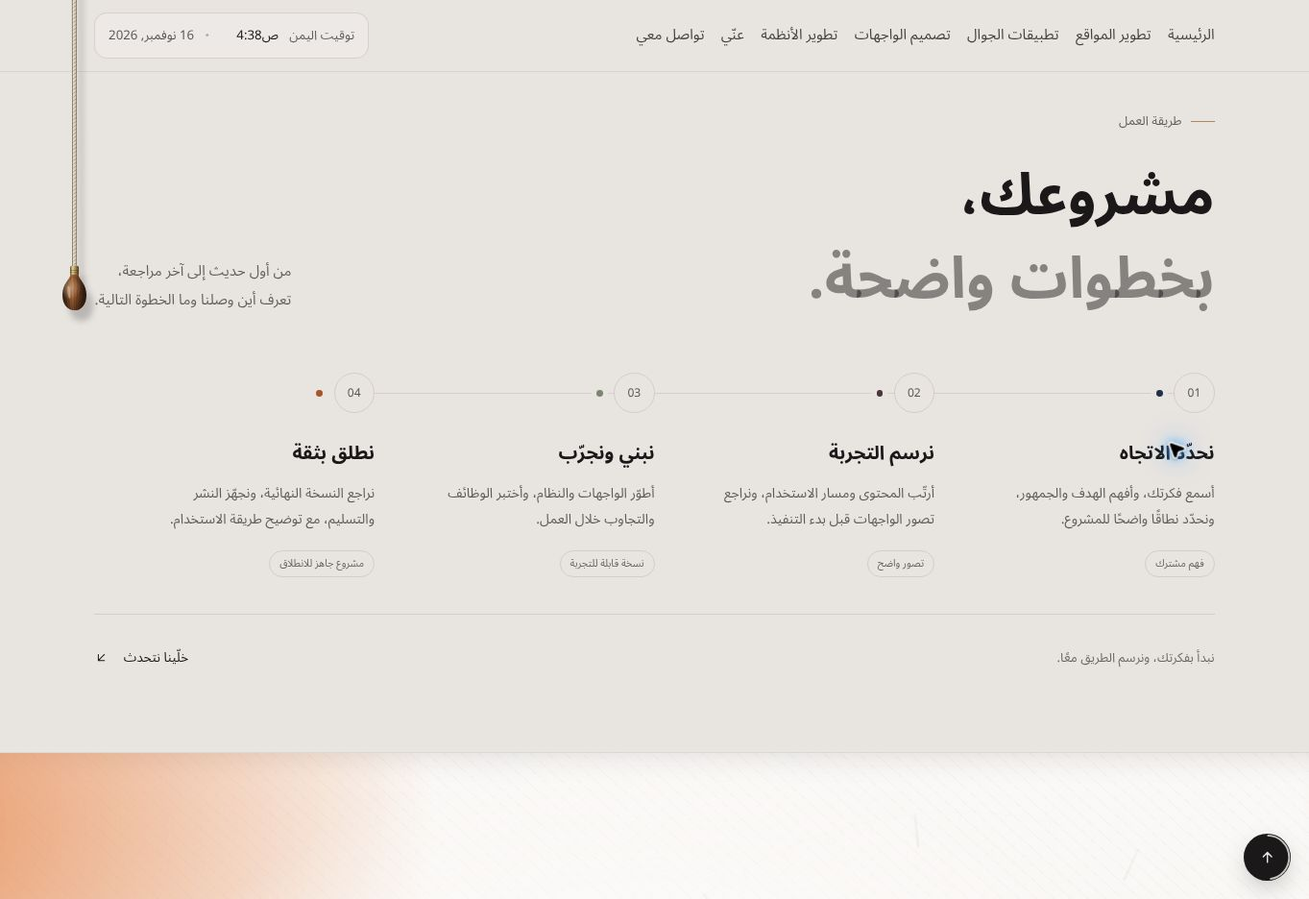
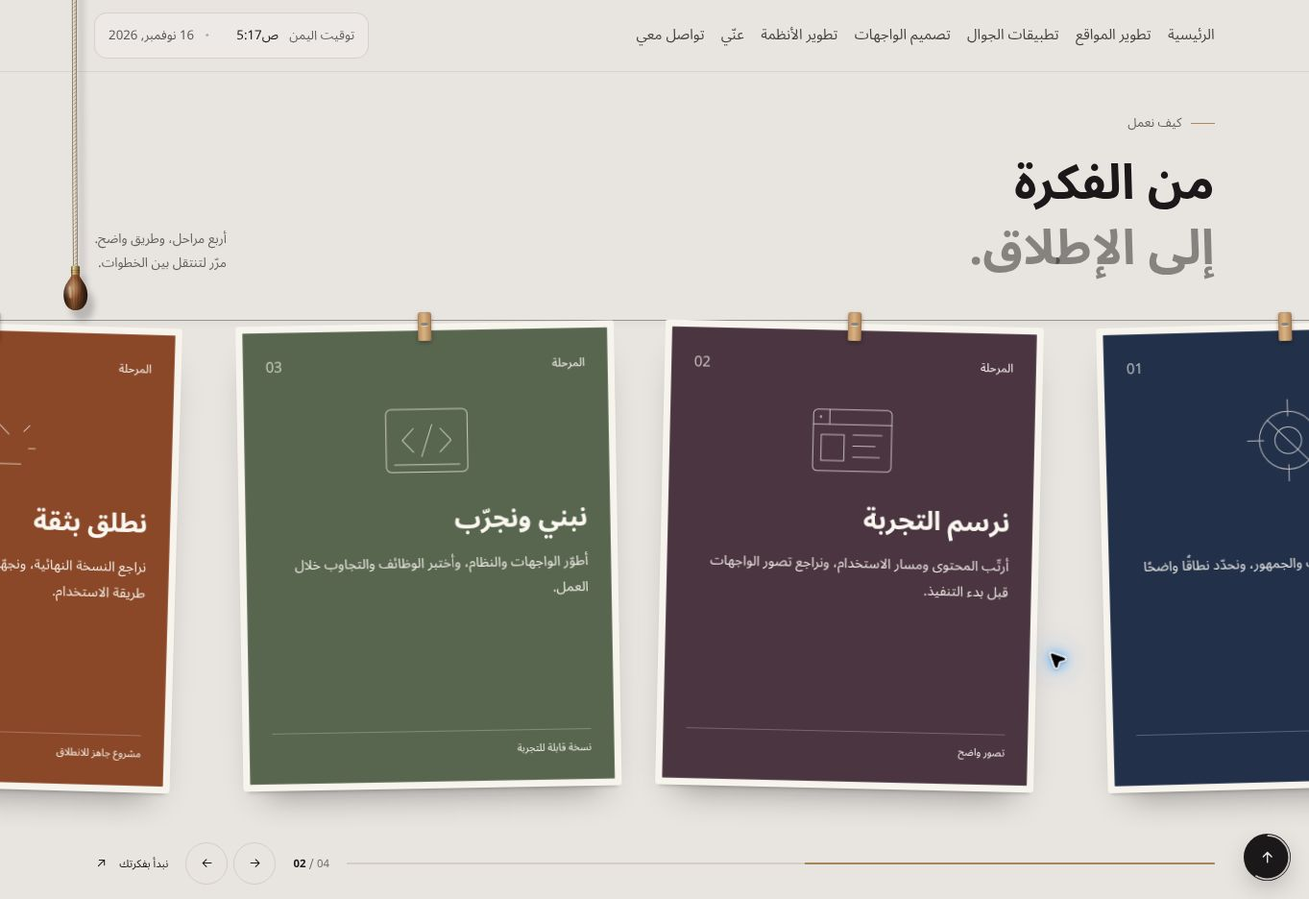
feat: choreograph profile papers and hanging workflow cards
Replace simple reveals with a scroll-driven three-paper profile and an RTL hanging-card gallery inspired by the reference design exhibit. Preserve native input, add sequence controls, and provide short-screen and reduced-motion fallbacks.

diff --git a/src/sections.css b/src/sections.css
@@ -1,47 +1,84 @@
-/* New sections share the portfolio's paper, metal, door colours and Arabic type. */
-.profile,.process{position:relative;background:var(--background);color:var(--foreground);scroll-margin-top:5.5rem}
-.profile{padding-block:7rem 5rem}
-.profile__grid{display:grid;grid-template-columns:minmax(0,1.25fr) minmax(0,.85fr);gap:clamp(3rem,7vw,7rem);align-items:center}
-.section-kicker{display:flex;align-items:center;gap:.65rem;color:rgba(var(--fg-rgb),.65);font-size:.875rem;font-weight:500;line-height:1.8;margin-bottom:1.5rem}
+/* Scroll stories: a turning paper dossier and a wire-hung workflow gallery. */
+.profile,.process{position:relative;background:var(--background);color:var(--foreground);scroll-margin-top:5.5rem;--motion-nav:80px}
+.section-kicker{display:flex;align-items:center;gap:.65rem;color:rgba(var(--fg-rgb),.65);font-size:.875rem;font-weight:500;line-height:1.8;margin-bottom:1.1rem}
 .section-kicker>span{width:1.6rem;height:1px;background:#ac885c}
-.profile__title,.process__head h2{font-size:clamp(2.3rem,4.4vw,4.4rem);line-height:1.45;font-weight:700;letter-spacing:0}
-.profile__title>span,.process__head h2>span{color:rgba(var(--fg-rgb),.48)}
-.profile__lead{font-size:1.125rem;line-height:2;max-width:49ch;margin-block:1.75rem 1rem}
-.profile__text{font-size:1rem;line-height:2;color:rgba(var(--fg-rgb),.68);max-width:52ch}
-.section-links{display:flex;flex-wrap:wrap;gap:.5rem 1.5rem;margin-top:1.75rem}
-.section-links a{min-height:44px;display:inline-flex;align-items:center;gap:.8rem;font-size:.9rem;border-bottom:1px solid var(--line);text-decoration:none;color:inherit;transition:border-color .25s}
-.section-links a:hover{border-color:#ac885c}.section-links a:focus-visible,.process__foot button:focus-visible{outline:2px solid #ac885c;outline-offset:5px}
-.profile-note{padding:2.1rem;border:1px solid var(--line);border-radius:1.5rem;background:var(--panel);box-shadow:0 1.5rem 3rem -2.5rem rgba(0,0,0,.4);transform:rotate(-2deg);transition:transform .5s var(--e-soft);position:relative}
-@media(hover:hover){.profile-note:hover{transform:rotate(0)}}
-.profile-note__top{display:flex;align-items:center;justify-content:space-between;font-size:.8rem;color:rgba(var(--fg-rgb),.6)}
-.profile-note__spark{color:#a68558;font-size:2rem;line-height:1}
-.profile-note__statement{font-size:clamp(1.65rem,2.7vw,2.65rem);font-weight:600;line-height:1.6;margin-block:2.1rem}
-.profile-note__values>div{display:grid;grid-template-columns:5.5rem minmax(0,1fr);gap:.5rem;border-top:1px solid var(--line);padding-block:.85rem;font-size:.875rem;line-height:1.8}
-.profile-note__values dt{font-weight:600}.profile-note__values dd{color:rgba(var(--fg-rgb),.65)}
-.profile-note__signature{display:flex;flex-direction:column;gap:.3rem;margin-top:1.5rem;padding-top:1.25rem;border-top:1px solid var(--line)}
-.profile-note__signature>span{font-size:1rem;font-weight:600}.profile-note__signature small{font-size:.75rem;color:rgba(var(--fg-rgb),.58)}
-.process{padding-block:4.5rem 5rem}
-.process__head{display:flex;justify-content:space-between;align-items:flex-end;gap:2rem;padding-top:3rem;border-top:1px solid var(--line)}
-.process__head>p{font-size:1rem;line-height:2;color:rgba(var(--fg-rgb),.65);padding-bottom:.5rem}
-.process__steps{display:grid;grid-template-columns:repeat(4,minmax(0,1fr));list-style:none;margin-top:3.5rem;gap:0}
-.process-step{position:relative;min-width:0;padding-inline-end:1.6rem;padding-block-end:1.5rem}
-.process-step::before{content:"";position:absolute;top:1.4rem;inset-inline:0;background:var(--line);height:1px;pointer-events:none}
-.process-step:last-child::before{inset-inline-end:calc(100% - 1.5rem)}
-.process-step__marker{position:relative;display:flex;align-items:center;gap:.75rem;min-height:2.8rem;margin-bottom:1.75rem}
-.process-step__marker>span{display:grid;place-items:center;width:2.8rem;height:2.8rem;flex:none;border-radius:50%;background:var(--background);border:1px solid var(--line);font-size:.8rem;direction:ltr;color:rgba(var(--fg-rgb),.7);font-variant-numeric:tabular-nums;position:relative}
-.process-step__marker i{width:.45rem;height:.45rem;border-radius:50%;background:var(--step-color);box-shadow:0 0 0 .35rem var(--background)}
-.process-step h3{font-size:1.3rem;font-weight:600;line-height:1.6;margin-bottom:.75rem}
-.process-step>p{font-size:.9375rem;line-height:1.95;color:rgba(var(--fg-rgb),.67);max-width:27ch}
-.process-step__result{display:inline-block;margin-top:1.2rem;padding:.3rem .65rem;border:1px solid var(--line);border-radius:99px;color:rgba(var(--fg-rgb),.65);font-size:.7rem;line-height:1.6}
-.process__foot{margin-top:1rem;padding-top:1.5rem;border-top:1px solid var(--line);display:flex;justify-content:space-between;align-items:center;gap:1rem;font-size:.875rem;color:rgba(var(--fg-rgb),.6)}
-.process__foot button{display:flex;align-items:center;gap:1rem;min-height:44px;font-size:.9rem;color:var(--foreground)}
-.section-reveal{opacity:0;translate:0 14px;transition:opacity .7s var(--e-soft) var(--reveal-delay,0ms),translate .7s var(--e-soft) var(--reveal-delay,0ms)}
-.section-visible{opacity:1;translate:0 0}
-@media(max-width:1023.98px){.profile__grid{grid-template-columns:minmax(0,1fr) minmax(0,.9fr);gap:2.5rem}.profile-note{padding:1.5rem}.process__steps{grid-template-columns:repeat(2,minmax(0,1fr));gap:1.5rem 2rem}.process-step:nth-child(2)::before{inset-inline-end:calc(100% - 1.5rem)}}
+.motion-number{direction:ltr;unicode-bidi:isolate;font-variant-numeric:tabular-nums}
+.section-links{display:flex;flex-wrap:wrap;gap:.5rem 1.4rem;margin-top:1.5rem}
+.section-links a{min-height:44px;display:inline-flex;align-items:center;gap:.8rem;font-size:.875rem;border-bottom:1px solid var(--line);text-decoration:none;color:inherit}
+.section-links svg{width:1rem;height:1rem;rotate:45deg}
+.section-links a:focus-visible,.profile-controls button:focus-visible,.work-foot button:focus-visible{outline:2px solid #ac885c;outline-offset:4px}
+.profile{padding-block:5rem 3rem}
+.profile__layout{display:grid;grid-template-columns:minmax(0,1.12fr) minmax(0,1fr);gap:clamp(2.5rem,6vw,6rem);align-items:start}
+.profile__copy{position:relative;padding-top:2rem;min-width:0}
+.profile__copy h2{font-size:clamp(2.2rem,4.1vw,4.1rem);line-height:1.45;font-weight:700}
+.profile__copy h2>span{color:rgba(var(--fg-rgb),.48)}
+.profile__lead{font-size:1.1rem;line-height:2;max-width:45ch;margin-top:1.5rem}
+.profile__aside{font-size:.9rem;line-height:1.9;color:rgba(var(--fg-rgb),.6);margin-top:1rem;max-width:42ch}
+.profile-stage{position:relative;min-width:0;padding-block:1rem}
+.profile-stage__caption,.profile-stage__foot{display:flex;align-items:center;justify-content:space-between;gap:1rem;font-size:.75rem;line-height:1.8;color:rgba(var(--fg-rgb),.58)}
+.profile-stage__caption{padding-inline:.5rem}.profile-stage__caption b{font-weight:600;color:var(--foreground)}
+.profile-desk{position:relative;padding:2.5rem 1rem}
+.profile-orbit{display:none}
+.profile-card{position:relative;border:1px solid var(--line);border-radius:1.1rem;background:var(--panel);padding:1.7rem;margin-bottom:1rem;box-shadow:0 16px 30px -25px rgba(0,0,0,.45);overflow:hidden;transform-origin:50% 80%}
+.profile-card::after{content:"";position:absolute;top:0;left:0;width:1.7rem;height:1.7rem;background:linear-gradient(135deg,var(--background) 49%,var(--line) 50%,var(--panel) 54%);border-end-end-radius:.3rem}
+.profile-card__meta{display:flex;justify-content:space-between;gap:1rem;font-size:.7rem;line-height:1.8;color:rgba(var(--fg-rgb),.6)}
+.profile-card__art{color:var(--card-accent);height:5rem;margin-block:1.2rem .7rem}.profile-card__art svg{height:100%;width:100%}
+.profile-card h3{font-size:clamp(2.2rem,4vw,3.4rem);font-weight:700;line-height:1.4;color:var(--foreground)}
+.profile-card>strong{display:block;font-size:1rem;font-weight:600;line-height:1.8;margin-top:.5rem}
+.profile-card>p{font-size:.9rem;line-height:1.9;color:rgba(var(--fg-rgb),.65);margin-top:.45rem}
+.profile-card__seal{display:flex;justify-content:space-between;align-items:center;border-top:1px solid var(--line);margin-top:1.2rem;padding-top:.8rem;font-size:.7rem;line-height:1.8;color:rgba(var(--fg-rgb),.6)}
+.profile-card__seal>span:last-child{color:#a68558;font-size:1.25rem}
+.profile-controls{display:none;gap:.2rem}.profile-controls button{display:grid;place-items:center;width:36px;height:36px}.profile-controls button span{width:6px;height:6px;border-radius:50%;background:var(--line);transition:background .25s,scale .25s}.profile-controls button[aria-current="step"] span{background:#a68558;scale:1.5}
+.profile.motion-profile .profile__copy{position:sticky;top:calc(var(--motion-nav) + 1.5rem)}
+.motion-profile .profile-reel{height:var(--profile-height)}
+.motion-profile .profile-stage{position:sticky;top:calc(var(--motion-nav) + 1rem);height:var(--profile-stage-height);display:flex;flex-direction:column}
+.motion-profile .profile-desk{flex:1;min-height:0;perspective:1000px;padding:0;contain:paint;overflow:clip}
+.motion-profile .profile-orbit{display:block;position:absolute;inset:0;width:100%;height:100%;fill:none;stroke:var(--line);stroke-width:.6;pointer-events:none}
+.motion-profile .profile-orbit__draw{stroke:#ac885c;stroke-width:1;stroke-dasharray:1445;stroke-dashoffset:calc(1445 * (1 - var(--profile-p,0)));rotate:-90deg;transform-origin:50% 50%}
+.motion-profile .profile-card{position:absolute;top:50%;left:50%;width:calc(100% - 3rem);max-width:26rem;height:var(--profile-card-height);margin:0;will-change:transform,opacity;display:flex;flex-direction:column}
+.motion-profile .profile-card__art{height:clamp(40px,calc(var(--profile-card-height) * .19),100px);flex:none;margin-block:1rem .5rem}
+.motion-profile .profile-card__seal{margin-top:auto}.motion-profile .profile-controls{display:flex}
+.motion-profile .profile-stage__foot{margin-top:.5rem;padding-inline:.5rem}
+/* Reference-inspired gallery: native vertical scroll drives a pinned, horizontal print line. */
+.process{padding-block:3rem}
+.process__head{display:flex;justify-content:space-between;align-items:flex-end;gap:2rem;padding-top:1.5rem}
+.process__head h2{font-size:clamp(2rem,3.7vw,3.8rem);line-height:1.35;font-weight:700}
+.process__head h2 span{color:rgba(var(--fg-rgb),.48)}
+.process__head>p{font-size:.9rem;line-height:1.9;color:rgba(var(--fg-rgb),.65);padding-bottom:.4rem}
+.work-line{position:relative;padding-block:2rem 3rem;overflow-x:auto;overscroll-behavior-x:contain;scrollbar-width:thin}
+.work-track{position:relative;display:flex;direction:rtl;align-items:flex-start;gap:clamp(24px,4vw,60px);list-style:none;width:max-content;padding-inline:max(20px,calc((100vw - min(100vw,88rem)) / 2 + 5.5rem));padding-top:12px}
+.work-track::before{content:"";position:absolute;inset-inline:0;top:20px;height:1px;background:rgba(var(--fg-rgb),.4);box-shadow:0 3px 4px rgba(0,0,0,.1);pointer-events:none}
+.work-print{position:relative;flex:none;width:min(78vw,26rem);padding-top:12px;transform-origin:50% 12px}
+.work-peg{position:absolute;top:0;left:50%;margin-left:-7px;z-index:2;width:14px;height:30px;border-radius:3px 3px 2px 2px;background:linear-gradient(90deg,#b98d5c,#d9b384 45%,#a97d4f);box-shadow:0 2px 4px rgba(0,0,0,.3),inset 0 0 0 1px rgba(0,0,0,.08)}
+.work-peg::after{content:"";position:absolute;left:3px;right:3px;top:11px;height:3px;border-radius:2px;background:#8a8580;box-shadow:0 1px 0 rgba(255,255,255,.4)}
+.work-paper{position:relative;display:block;padding:7px;background:#f7f3ed;border-radius:3px;box-shadow:0 22px 36px -22px rgba(0,0,0,.45),0 4px 5px -4px rgba(0,0,0,.3);transition:translate .35s var(--e-soft)}
+.work-paper__face{height:var(--paper-height,440px);padding:1.5rem;background:var(--work-color);color:#faf6f0;display:flex;flex-direction:column;border:1px solid rgba(255,255,255,.14);border-radius:1px}
+.work-paper__top{display:flex;justify-content:space-between;align-items:center;font-size:.8rem;line-height:1.7}.work-paper__top b{font-size:1rem;font-weight:500;opacity:.7}
+.work-paper__art{height:clamp(36px,calc(var(--paper-height,440px) * .21),104px);width:100%;flex:none;opacity:.7;margin-block:1rem}
+.work-paper h3{font-size:clamp(1.35rem,2vw,1.8rem);line-height:1.5;font-weight:600;margin-bottom:.65rem}
+.work-paper p{font-size:.95rem;line-height:1.9;opacity:.92}
+.work-paper__result{align-self:flex-start;font-size:.7rem;line-height:1.7;border-top:1px solid rgba(255,255,255,.24);margin-top:auto;padding-top:.7rem;width:100%}
+.work-foot{display:flex;align-items:center;gap:1.2rem;padding-block:1rem;min-height:66px;font-size:.75rem;line-height:1.8;color:rgba(var(--fg-rgb),.6)}
+.work-progress{height:2px;flex:1;min-width:30px;background:var(--line);overflow:hidden}.work-progress i{display:block;height:100%;background:#a68558;transform-origin:100% 50%;transform:scaleX(var(--work-p,0))}
+.work-counter{white-space:nowrap}.work-counter b{color:var(--foreground);font-weight:600}
+.work-controls{display:none;gap:.4rem}.work-controls button{display:grid;place-items:center;width:44px;height:44px;border:1px solid var(--line);border-radius:50%;color:var(--foreground)}
+.work-controls button:last-child svg{rotate:180deg}.work-controls button:disabled{opacity:.3;cursor:default}
+.work-foot svg{width:1rem;height:1rem;flex:none}.work-contact{display:flex;align-items:center;gap:.7rem;min-height:44px;color:var(--foreground);white-space:nowrap}.work-contact svg{rotate:-45deg}
+.process.motion-work{padding:0;height:var(--work-height)}
+.motion-work .process-pin{position:sticky;top:var(--motion-nav);height:var(--work-pin-height);overflow:hidden;display:flex;flex-direction:column;background:var(--background)}
+.motion-work .process__head{flex:none}.motion-work .work-line{flex:1;min-height:0;overflow:hidden;padding:0}
+.motion-work .work-track{position:absolute;right:0;top:20px;will-change:transform;padding-top:12px}
+.motion-work .work-print{will-change:transform}.motion-work .work-foot{flex:none;width:100%}.motion-work .work-controls{display:flex}
+@media(hover:hover){.work-paper:hover{translate:0 -5px}}
+html[data-mode="dark"] .profile-card__art{color:color-mix(in srgb,var(--card-accent) 50%,#dfc9ac)}
+@media(max-width:1023.98px){.profile__layout{gap:2rem;grid-template-columns:minmax(0,1fr) minmax(0,1fr)}.profile__copy h2{font-size:2.5rem}.profile-card{padding:1.3rem}.profile-card h3{font-size:2.3rem}.profile__lead{font-size:1rem}.work-track{padding-inline:24px}.work-print{width:min(78vw,23rem)}}
 @media(max-width:639.98px){
-.profile{padding-block:4.5rem 2rem}.profile__grid{grid-template-columns:minmax(0,1fr);gap:2.5rem}.section-kicker{margin-bottom:1rem}.profile__title,.process__head h2{font-size:2.2rem;line-height:1.5}.profile__lead{font-size:1rem;margin-top:1.3rem}.profile__text{font-size:.9375rem}.profile-note{transform:none;padding:1.5rem;margin-inline:.2rem}.profile-note__statement{margin-block:1.4rem;font-size:1.9rem}.profile-note__values>div{grid-template-columns:5rem minmax(0,1fr)}
-.process{padding-block:2.5rem 3rem}.process__head{display:block;padding-top:2rem}.process__head>p{margin-top:1rem;font-size:.9375rem}.process__steps{grid-template-columns:minmax(0,1fr);margin-top:2rem;gap:0}.process-step{padding-inline:4rem 0;padding-block:0 2rem}.process-step::before,.process-step:nth-child(2)::before,.process-step:last-child::before{inset-inline-start:1.35rem;inset-inline-end:auto;top:0;bottom:0;width:1px;height:auto}.process-step:last-child::before{height:2rem;bottom:auto}.process-step__marker{position:absolute;inset-inline-start:0;top:0;margin:0}.process-step__marker i{display:none}.process-step h3{padding-top:.3rem;font-size:1.25rem;margin-bottom:.55rem}.process-step>p{max-width:none}.process-step__result{margin-top:.7rem}.process__foot{align-items:flex-start;flex-direction:column;gap:.5rem}
+.profile{padding-block:3rem 2rem}.profile__layout{display:block}.profile__copy,.profile.motion-profile .profile__copy{position:relative;top:auto;padding-top:.75rem}.profile__copy h2{font-size:2.2rem;line-height:1.45}.profile__lead{font-size:1rem;line-height:1.95;margin-top:1.2rem}.profile__aside{font-size:.875rem}.section-links{margin-top:1rem}.profile-reel{margin-top:2rem}.profile-stage__caption,.profile-stage__foot{font-size:.7rem}.motion-profile .profile-card{width:calc(100% - 2rem);padding:1.4rem}.profile-card h3{font-size:2.5rem}.profile-card>strong{font-size:1rem}.profile-card>p{font-size:.9rem}.motion-profile .profile-card__art{margin-block:.7rem .3rem}.profile-controls button{width:32px;height:36px}
+.process__head{display:block;padding-top:.75rem}.process__head .section-kicker{margin-bottom:.5rem}.process__head h2{font-size:1.85rem;line-height:1.3}.process__head>p{margin-top:.6rem;font-size:.8rem;line-height:1.7}.process__head>p br{display:none}.process__head>p span{display:block}.work-track{padding-inline:20px;gap:28px}.work-print{width:78vw;max-width:23rem}.work-paper{padding:5px}.work-paper__face{padding:1.1rem}.work-paper h3{font-size:1.35rem;margin-bottom:.45rem}.work-paper p{font-size:.9rem;line-height:1.85}.work-paper__art{margin-block:.65rem}.work-paper__result{font-size:.7rem;padding-top:.5rem}.work-foot{gap:.65rem;min-height:64px;padding-block:.5rem}.work-contact{font-size:.7rem;gap:.4rem}.work-foot .work-counter{font-size:.7rem}.work-controls{gap:.25rem}.work-controls button{width:38px;height:44px}.work-progress{min-width:12px}
 }
-@media(prefers-reduced-motion:reduce){.section-reveal{opacity:1;translate:none;transition:none}.profile-note{transform:none;transition:none}}
+@media(max-height:680px){.process__head h2{font-size:1.7rem;line-height:1.3}.process__head h2 br{display:none}.process__head h2 span{margin-inline-start:.5rem}.process__head>p{display:none}.process__head .section-kicker{margin-bottom:.4rem}.process__head{padding-top:.6rem}.work-paper__art{height:36px;margin-block:.5rem}.work-paper h3{font-size:1.25rem}.work-paper p{font-size:.875rem;line-height:1.8}.work-paper__face{padding:1rem}}
+@media(prefers-reduced-motion:reduce){.profile-card,.work-paper{transition:none!important}.profile-controls,.work-controls{display:none!important}}
 
-.section-links svg,.process__foot button svg{width:1rem;height:1rem;flex:none}.profile-note__spark svg{display:block;width:2rem;height:2rem}
+@media(max-height:680px){.motion-profile .profile-card{padding:1rem}.motion-profile .profile-card__art{height:30px;margin-block:.5rem}.profile-card h3{font-size:2rem}.profile-card>strong{font-size:.9rem}.profile-card>p{font-size:.85rem;line-height:1.7}.profile-card__seal{font-size:.65rem;padding-top:.5rem}.profile-card__meta{font-size:.65rem}}
+@media(max-width:639.98px){.motion-profile .profile-stage__foot{padding-inline-start:4.5rem}}
+@media(max-height:680px){.profile-card::after{width:1rem;height:1rem}}

diff --git a/src/home.html b/src/home.html
@@ -213,33 +213,8 @@
 <div aria-hidden="true" class="doors__floor"></div>
 </div>
 </section>
-<section class="profile" id="about" aria-labelledby="profileTitle">
-<div class="shell profile__grid">
-<div class="profile__copy" data-section-reveal>
-<p class="section-kicker"><span></span>عنّي</p>
-<h2 class="profile__title" id="profileTitle">أفهم الفكرة.<br><span>وأبني ما يجعلها تعمل.</span></h2>
-<p class="profile__lead">أنا إلياس الشعيبي، مهندس برمجيات من اليمن. أطوّر المواقع وتطبيقات الجوال والأنظمة المخصصة، وأهتم بما وراء الواجهة بقدر ما أهتم بتجربتها.</p>
-<p class="profile__text">أربط التصميم بالتقنية لأحوّل الاحتياج إلى تجربة واضحة، ونظام منظم يسهل تطويره. من أول تصور حتى الإطلاق، أعتني بالتفاصيل التي تجعل المشروع عمليًا وسهل الاستخدام.</p>
-<div class="section-links"><a href="#process" data-go="process">كيف أعمل؟ <svg aria-hidden="true" viewBox="0 0 24 24" fill="none" stroke="currentColor" stroke-width="1.6" stroke-linecap="round" stroke-linejoin="round"><path d="M17 7 7 17M7 7v10h10"/></svg></a><a href="#journey" data-go="journey">تعرّف على رحلتي <svg aria-hidden="true" viewBox="0 0 24 24" fill="none" stroke="currentColor" stroke-width="1.6" stroke-linecap="round" stroke-linejoin="round"><path d="M12 4v16m-6-6 6 6 6-6"/></svg></a></div>
-</div>
-<aside class="profile-note" aria-label="ما أهتم به في كل مشروع" data-section-reveal>
-<div class="profile-note__top"><span>في كل مشروع</span><span class="profile-note__spark" aria-hidden="true"><svg viewBox="0 0 32 32" fill="none" stroke="currentColor" stroke-width="1.8" stroke-linecap="round"><path d="M16 3v26M3 16h26M7 7l18 18M25 7 7 25"/></svg></span></div>
-<p class="profile-note__statement">فكرة مفهومة.<br>وتنفيذ مدروس.</p>
-<dl class="profile-note__values"><div><dt>وضوح</dt><dd>تجربة يفهمها المستخدم</dd></div><div><dt>ترابط</dt><dd>واجهة ونظام يعملان معًا</dd></div><div><dt>استمرارية</dt><dd>أساس يسهل البناء عليه</dd></div></dl>
-<div class="profile-note__signature"><span>إلياس الشعيبي</span><small>مهندس برمجيات · من اليمن</small></div>
-</aside>
-</div></section>
-<section class="process" id="process" aria-labelledby="processTitle">
-<div class="shell">
-<header class="process__head" data-section-reveal><div><p class="section-kicker"><span></span>طريقة العمل</p><h2 id="processTitle">مشروعك،<br><span>بخطوات واضحة.</span></h2></div><p>من أول حديث إلى آخر مراجعة،<br>تعرف أين وصلنا وما الخطوة التالية.</p></header>
-<ol class="process__steps">
-<li class="process-step" style="--step-color:#22304a;--reveal-delay:0ms" data-section-reveal><div class="process-step__marker"><span>01</span><i aria-hidden="true"></i></div><h3>نحدّد الاتجاه</h3><p>أسمع فكرتك، وأفهم الهدف والجمهور، ونحدّد نطاقًا واضحًا للمشروع.</p><span class="process-step__result">فهم مشترك</span></li>
-<li class="process-step" style="--step-color:#4a3540;--reveal-delay:80ms" data-section-reveal><div class="process-step__marker"><span>02</span><i aria-hidden="true"></i></div><h3>نرسم التجربة</h3><p>أرتّب المحتوى ومسار الاستخدام، ونراجع تصور الواجهات قبل بدء التنفيذ.</p><span class="process-step__result">تصور واضح</span></li>
-<li class="process-step" style="--step-color:#7a8670;--reveal-delay:160ms" data-section-reveal><div class="process-step__marker"><span>03</span><i aria-hidden="true"></i></div><h3>نبني ونجرّب</h3><p>أطوّر الواجهات والنظام، وأختبر الوظائف والتجاوب خلال العمل.</p><span class="process-step__result">نسخة قابلة للتجربة</span></li>
-<li class="process-step" style="--step-color:#a4552c;--reveal-delay:240ms" data-section-reveal><div class="process-step__marker"><span>04</span><i aria-hidden="true"></i></div><h3>نطلق بثقة</h3><p>نراجع النسخة النهائية، ونجهّز النشر والتسليم، مع توضيح طريقة الاستخدام.</p><span class="process-step__result">مشروع جاهز للانطلاق</span></li>
-</ol>
-<div class="process__foot"><span>نبدأ بفكرتك، ونرسم الطريق معًا.</span><button data-contact="">خلّينا نتحدث <svg aria-hidden="true" viewBox="0 0 24 24" fill="none" stroke="currentColor" stroke-width="1.6" stroke-linecap="round" stroke-linejoin="round"><path d="M17 7 7 17M7 7v10h10"/></svg></button></div>
-</div></section>
+<section class="profile" id="about" aria-labelledby="profileTitle"><div class="shell profile__layout"><div class="profile__copy"><p class="section-kicker"><span></span>عنّي</p><h2 id="profileTitle">أفهم الفكرة.<br><span>وأبني ما يجعلها تعمل.</span></h2><p class="profile__lead">أنا إلياس الشعيبي، مهندس برمجيات من اليمن. أبني مواقع وتطبيقات وأنظمة مخصصة، وأجمع بين وضوح التجربة وترابط التقنية، من الفكرة حتى الإطلاق.</p><p class="profile__aside">كل مشروع مختلف. وهذه المبادئ ترافقني في كل مرة.</p><div class="section-links"><a href="#process" data-go="process">كيف أعمل؟ <svg viewBox="0 0 24 24" fill="none" stroke="currentColor" stroke-width="1.6" stroke-linecap="round" stroke-linejoin="round" aria-hidden="true"><path d="M5 12h14m-6-6 6 6-6 6"/></svg></a><a href="#journey" data-go="journey">تعرّف على رحلتي <svg viewBox="0 0 24 24" fill="none" stroke="currentColor" stroke-width="1.6" stroke-linecap="round" stroke-linejoin="round" aria-hidden="true"><path d="M5 12h14m-6-6 6 6-6 6"/></svg></a></div></div><div class="profile-reel"><div class="profile-stage"><div class="profile-stage__caption"><span>وراء كل مشروع</span><span class="motion-number" aria-hidden="true"><b data-profile-count>01</b> / 03</span></div><div class="profile-desk"><svg class="profile-orbit" viewBox="0 0 500 500" aria-hidden="true"><circle cx="250" cy="250" r="230"/><circle class="profile-orbit__draw" cx="250" cy="250" r="230"/></svg><article class="profile-card" style="--card-accent:#22304a"><div class="profile-card__meta"><span>ما يهمني في كل بناء</span><span class="motion-number">01</span></div><div class="profile-card__art" aria-hidden="true"><svg viewBox="0 0 160 128" fill="none" stroke="currentColor" stroke-width="1.2" stroke-linecap="round" stroke-linejoin="round"><circle cx="80" cy="64" r="39"/><circle cx="80" cy="64" r="18"/><path d="M80 9v22m0 66v22M25 64h22m66 0h22M53 37l54 54"/></svg></div><h3>وضوح.</h3><strong>أفهم قبل أن أبني.</strong><p>أبدأ بالهدف، وأسأل عمّا يحتاجه المشروع فعلًا.</p><div class="profile-card__seal"><span>الفكرة أولًا</span><span aria-hidden="true">✦</span></div></article><article class="profile-card" style="--card-accent:#7a8670"><div class="profile-card__meta"><span>ما يهمني في كل بناء</span><span class="motion-number">02</span></div><div class="profile-card__art" aria-hidden="true"><svg viewBox="0 0 160 128" fill="none" stroke="currentColor" stroke-width="1.2" stroke-linecap="round" stroke-linejoin="round"><rect x="27" y="23" width="106" height="83" rx="6"/><path d="M27 43h106M49 23v20M38 57h31v35H38zm43 0h39M81 72h30M81 87h36"/><circle cx="37" cy="33" r="1"/></svg></div><h3>ترابط.</h3><strong>التفاصيل تعمل معًا.</strong><p>أصل تجربة المستخدم بالواجهة والنظام، ليعمل المشروع ككل.</p><div class="profile-card__seal"><span>من التجربة إلى التقنية</span><span aria-hidden="true">✦</span></div></article><article class="profile-card" style="--card-accent:#a4552c"><div class="profile-card__meta"><span>ما يهمني في كل بناء</span><span class="motion-number">03</span></div><div class="profile-card__art" aria-hidden="true"><svg viewBox="0 0 160 128" fill="none" stroke="currentColor" stroke-width="1.2" stroke-linecap="round" stroke-linejoin="round"><rect x="25" y="22" width="110" height="85" rx="7"/><path d="m62 48-15 16 15 16m36-32 15 16-15 16M87 43 73 86M36 97h88"/></svg></div><h3>استمرارية.</h3><strong>أبني لما بعد الإطلاق.</strong><p>أعتني بتنظيم العمل، ليبقى قابلًا للتطوير مع احتياجك.</p><div class="profile-card__seal"><span>أساس يمكن البناء عليه</span><span aria-hidden="true">✦</span></div></article></div><div class="profile-stage__foot"><span>مرّر لتكتشف ما وراء العمل</span><div class="profile-controls" aria-label="مبادئ العمل"><button type="button" data-profile-jump="0" aria-label="المبدأ 1: وضوح."><span></span></button><button type="button" data-profile-jump="1" aria-label="المبدأ 2: ترابط."><span></span></button><button type="button" data-profile-jump="2" aria-label="المبدأ 3: استمرارية."><span></span></button></div></div></div></div></div></section>
+<section class="process" id="process" aria-labelledby="processTitle"><div class="process-pin"><header class="shell process__head"><div><p class="section-kicker"><span></span>كيف نعمل</p><h2 id="processTitle">من الفكرة<br><span>إلى الإطلاق.</span></h2></div><p>أربع مراحل، وطريق واضح.<br><span data-work-hint>مرّر لتنتقل بين الخطوات.</span></p></header><div class="work-line" role="region" aria-label="مراحل العمل" tabindex="0"><ol class="work-track"><li class="work-print" style="--work-color:#22304a"><span class="work-peg" aria-hidden="true"></span><article class="work-paper"><div class="work-paper__face"><div class="work-paper__top"><span>المرحلة</span><b class="motion-number">01</b></div><svg class="work-paper__art" viewBox="0 0 160 128" fill="none" stroke="currentColor" stroke-width="1.3" stroke-linecap="round" stroke-linejoin="round" aria-hidden="true"><circle cx="80" cy="64" r="39"/><circle cx="80" cy="64" r="18"/><path d="M80 9v22m0 66v22M25 64h22m66 0h22M53 37l54 54"/></svg><h3>نحدّد الاتجاه</h3><p>أسمع فكرتك، وأفهم الهدف والجمهور، ونحدّد نطاقًا واضحًا للمشروع.</p><span class="work-paper__result">فهم مشترك</span></div></article></li><li class="work-print" style="--work-color:#4a3540"><span class="work-peg" aria-hidden="true"></span><article class="work-paper"><div class="work-paper__face"><div class="work-paper__top"><span>المرحلة</span><b class="motion-number">02</b></div><svg class="work-paper__art" viewBox="0 0 160 128" fill="none" stroke="currentColor" stroke-width="1.3" stroke-linecap="round" stroke-linejoin="round" aria-hidden="true"><rect x="27" y="23" width="106" height="83" rx="6"/><path d="M27 43h106M49 23v20M38 57h31v35H38zm43 0h39M81 72h30M81 87h36"/><circle cx="37" cy="33" r="1"/></svg><h3>نرسم التجربة</h3><p>أرتّب المحتوى ومسار الاستخدام، ونراجع تصور الواجهات قبل بدء التنفيذ.</p><span class="work-paper__result">تصور واضح</span></div></article></li><li class="work-print" style="--work-color:#58664f"><span class="work-peg" aria-hidden="true"></span><article class="work-paper"><div class="work-paper__face"><div class="work-paper__top"><span>المرحلة</span><b class="motion-number">03</b></div><svg class="work-paper__art" viewBox="0 0 160 128" fill="none" stroke="currentColor" stroke-width="1.3" stroke-linecap="round" stroke-linejoin="round" aria-hidden="true"><rect x="25" y="22" width="110" height="85" rx="7"/><path d="m62 48-15 16 15 16m36-32 15 16-15 16M87 43 73 86M36 97h88"/></svg><h3>نبني ونجرّب</h3><p>أطوّر الواجهات والنظام، وأختبر الوظائف والتجاوب خلال العمل.</p><span class="work-paper__result">نسخة قابلة للتجربة</span></div></article></li><li class="work-print" style="--work-color:#8a4828"><span class="work-peg" aria-hidden="true"></span><article class="work-paper"><div class="work-paper__face"><div class="work-paper__top"><span>المرحلة</span><b class="motion-number">04</b></div><svg class="work-paper__art" viewBox="0 0 160 128" fill="none" stroke="currentColor" stroke-width="1.3" stroke-linecap="round" stroke-linejoin="round" aria-hidden="true"><path d="M40 95h82M80 95V31m-25 24 25-25 25 25M43 51l-8-8m90 8 8-8M80 13V5M28 74h-9m122 0h-9"/><circle cx="80" cy="95" r="5"/></svg><h3>نطلق بثقة</h3><p>نراجع النسخة النهائية، ونجهّز النشر والتسليم، مع توضيح طريقة الاستخدام.</p><span class="work-paper__result">مشروع جاهز للانطلاق</span></div></article></li></ol></div><div class="shell work-foot"><div class="work-progress" aria-hidden="true"><i></i></div><span class="work-counter motion-number" aria-hidden="true"><b data-work-count>01</b> / 04</span><div class="work-controls" aria-label="التنقل بين مراحل العمل"><button type="button" data-work-dir="-1" aria-label="المرحلة السابقة"><svg viewBox="0 0 24 24" fill="none" stroke="currentColor" stroke-width="1.6" stroke-linecap="round" stroke-linejoin="round" aria-hidden="true"><path d="M5 12h14m-6-6 6 6-6 6"/></svg></button><button type="button" data-work-dir="1" aria-label="المرحلة التالية"><svg viewBox="0 0 24 24" fill="none" stroke="currentColor" stroke-width="1.6" stroke-linecap="round" stroke-linejoin="round" aria-hidden="true"><path d="M5 12h14m-6-6 6 6-6 6"/></svg></button></div><button class="work-contact" data-contact="">نبدأ بفكرتك <svg viewBox="0 0 24 24" fill="none" stroke="currentColor" stroke-width="1.6" stroke-linecap="round" stroke-linejoin="round" aria-hidden="true"><path d="M5 12h14m-6-6 6 6-6 6"/></svg></button></div></div></section>
 <section aria-labelledby="storyTitle" class="story" id="journey" style="--n:5">
 <div aria-hidden="true" class="story__amb"><i></i><i></i><i></i><i></i><i></i></div>
 <div class="story__track">

diff --git a/src/sections.js b/src/sections.js
@@ -1,11 +1,127 @@
-// Small, one-time reveals; content stays readable without JavaScript or animation.
-const items = document.querySelectorAll('[data-section-reveal]');
-if (!matchMedia('(prefers-reduced-motion: reduce)').matches && 'IntersectionObserver' in window) {
-  const observer = new IntersectionObserver(entries => {
-    for (const entry of entries) if (entry.isIntersecting) {
-      entry.target.classList.add('section-visible');
-      observer.unobserve(entry.target);
-    }
-  }, { threshold: .12 });
-  for (const item of items) { item.classList.add('section-reveal'); observer.observe(item); }
+// Scroll-driven stories. Native wheel/touch remain untouched; only presentation transforms move.
+const profile = document.querySelector('.profile');
+const reel = profile?.querySelector('.profile-reel');
+const stage = profile?.querySelector('.profile-stage');
+const pages = [...(profile?.querySelectorAll('.profile-card') || [])];
+const pageButtons = [...(profile?.querySelectorAll('[data-profile-jump]') || [])];
+const process = document.querySelector('.process');
+const pin = process?.querySelector('.process-pin');
+const track = process?.querySelector('.work-track');
+const prints = [...(process?.querySelectorAll('.work-print') || [])];
+const controls = [...(process?.querySelectorAll('[data-work-dir]') || [])];
+const reduced = matchMedia('(prefers-reduced-motion: reduce)');
+const clamp = (v, a = 0, b = 1) => Math.min(b, Math.max(a, v));
+let nav = 80, profileTravel = 1, workTravel = 1, distance = 0;
+let profileMotion = false, workMotion = false, workIndex = 0, pageIndex = -1;
+let raf = 0, lastTime = 0, lastX = 0, lastProgress = -1, settle = 0;
+const swings = prints.map((_, i) => ({ angle: [-1.5, 1.3, -1, 1.6][i], speed: 0, rest: [-1.5, 1.3, -1, 1.6][i] }));
+
+function schedule() { if (!raf) raf = requestAnimationFrame(render); }
+function layout() {
+  if (!profile || !process) return;
+  nav = Math.ceil(document.querySelector('.hdr')?.getBoundingClientRect().height || 80);
+  for (const el of [profile, process]) el.style.setProperty('--motion-nav', `${nav}px`);
+  const vh = innerHeight;
+  profileMotion = !reduced.matches && vh >= 520;
+  profile.classList.toggle('motion-profile', profileMotion);
+  if (profileMotion) {
+    const h = Math.min(640, vh - nav - 32);
+    const paper = Math.min(470, h - 94);
+    profileTravel = Math.max(vh * 2, 1000);
+    profile.style.setProperty('--profile-stage-height', `${h}px`);
+    profile.style.setProperty('--profile-card-height', `${paper}px`);
+    profile.style.setProperty('--profile-height', `${h + profileTravel}px`);
+  } else {
+    for (const page of pages) { page.style.removeProperty('transform'); page.style.removeProperty('opacity'); page.style.removeProperty('z-index'); }
+  }
+  // Measure the real header/footer and reserve space for the wire, peg and paper frame.
+  process.classList.add('motion-work');
+  const pinHeight = vh - nav;
+  process.style.setProperty('--work-pin-height', `${pinHeight}px`);
+  const head = process.querySelector('.process__head').offsetHeight;
+  const foot = process.querySelector('.work-foot').offsetHeight;
+  const paperHeight = Math.min(470, pinHeight - head - foot - 60);
+  workMotion = !reduced.matches && paperHeight >= 260;
+  process.classList.toggle('motion-work', workMotion);
+  process.style.setProperty('--paper-height', `${workMotion ? paperHeight : 380}px`);
+  if (workMotion) {
+    distance = Math.max(0, track.offsetWidth - pin.clientWidth);
+    workTravel = Math.max(distance * (innerWidth < 768 ? 1.1 : 1), vh * .85);
+    process.style.setProperty('--work-height', `${pinHeight + workTravel}px`);
+  } else {
+    process.style.removeProperty('--work-height'); track.style.removeProperty('transform');
+    for (const print of prints) print.style.removeProperty('transform');
+  }
+  process.querySelector('[data-work-hint]').textContent = workMotion ? 'مرّر لتنتقل بين الخطوات.' : 'اسحب البطاقات لتتابع المراحل.';
+  lastX = NaN; lastProgress = -1; schedule();
 }
+function render(time) {
+  raf = 0;
+  const dt = Math.min(2.5, Math.max(.5, (time - (lastTime || time)) / 16.67)); lastTime = time;
+  if (profileMotion) {
+    const r = reel.getBoundingClientRect();
+    const p = clamp((nav + 16 - r.top) / profileTravel);
+    const phase = p * 3;
+    profile.style.setProperty('--profile-p', p.toFixed(4));
+    const active = Math.min(2, Math.floor(phase));
+    if (active !== pageIndex) {
+      pageIndex = active; profile.querySelector('[data-profile-count]').textContent = String(active + 1).padStart(2, '0');
+      pageButtons.forEach((b, i) => i === active ? b.setAttribute('aria-current', 'step') : b.removeAttribute('aria-current'));
+    }
+    if (r.top < innerHeight && r.bottom > nav) pages.forEach((page, i) => {
+      const currentPeel = active < 2 ? clamp((phase - active - .4) / .6) : 0;
+      const peel = i < active ? 1 : i === active ? currentPeel : 0;
+      const behind = Math.max(0, i - active - currentPeel);
+      const x = -peel * stage.clientWidth * .85 + behind * 9;
+      const y = -peel * 45 + behind * 12;
+      const rotate = -peel * 24 + behind * 4.5;
+      page.style.transform = `translate(-50%,-50%) translate3d(${x.toFixed(1)}px,${y.toFixed(1)}px,0) rotate(${rotate.toFixed(2)}deg)`;
+      page.style.opacity = String(1 - clamp((peel - .6) / .4));
+      page.style.zIndex = String(4 - i);
+    });
+  }
+  if (workMotion) {
+    const r = process.getBoundingClientRect();
+    const p = clamp((nav - r.top) / workTravel);
+    const x = p * distance;
+    const velocity = Number.isFinite(lastX) ? (x - lastX) / dt : 0; lastX = x;
+    track.style.transform = `translate3d(${x.toFixed(2)}px,0,0)`;
+    process.style.setProperty('--work-p', p.toFixed(4));
+    workIndex = Math.min(3, Math.round(p * 3));
+    process.querySelector('[data-work-count]').textContent = String(workIndex + 1).padStart(2, '0');
+    controls[0].disabled = p < .005; controls[1].disabled = p > .995;
+    if (Math.abs(p - lastProgress) > .00005) settle = 80;
+    lastProgress = p;
+    if (r.top < innerHeight && r.bottom > nav) prints.forEach((print, i) => {
+      const s = swings[i], target = s.rest + clamp(velocity * .35, -9, 9);
+      s.speed += (target - s.angle) * .065 * dt;
+      s.speed *= Math.pow(.78, dt); s.angle += s.speed * dt;
+      print.style.transform = `rotate(${clamp(s.angle, -11, 11).toFixed(2)}deg)`;
+    });
+    if (settle > 0 && r.top < innerHeight && r.bottom > nav) { settle--; schedule(); }
+  }
+}
+function goTo(top) {
+  if (window.__snapTo) window.__snapTo(top);
+  else window.scrollTo({ top, behavior: reduced.matches ? 'auto' : 'smooth' });
+}
+for (const b of pageButtons) b.addEventListener('click', () => {
+  const top = reel.getBoundingClientRect().top + scrollY - nav - 16;
+  goTo(top + (+b.dataset.profileJump / 3) * profileTravel);
+});
+function workGo(dir) {
+  if (!workMotion) return;
+  const p = clamp((workIndex + dir) / 3);
+  goTo(process.getBoundingClientRect().top + scrollY - nav + p * workTravel);
+}
+for (const b of controls) b.addEventListener('click', () => workGo(+b.dataset.workDir));
+const line = process?.querySelector('.work-line');
+line?.addEventListener('keydown', e => {
+  if (!workMotion || e.target !== line || !['ArrowLeft', 'ArrowRight'].includes(e.key)) return;
+  e.preventDefault(); workGo(e.key === 'ArrowLeft' ? 1 : -1);
+});
+addEventListener('scroll', schedule, { passive: true });
+addEventListener('resize', layout, { passive: true });
+reduced.addEventListener('change', layout);
+document.fonts?.ready.then(layout);
+layout();

diff --git a/src/experience.js b/src/experience.js
@@ -117,7 +117,7 @@ function scrollToId(id){
   const el = document.getElementById(id); if (!el) return;
   scrollEnabled = false;
   setTimeout(() => {
-    const top = el.getBoundingClientRect().top + window.pageYOffset;
+    const top = Math.max(0, el.getBoundingClientRect().top + window.pageYOffset - (id === 'process' ? ($('.hdr')?.offsetHeight || 80) : 0));
     if (lenis) lenis.scrollTo(top); else window.scrollTo({ top, behavior:'smooth' });
     setTimeout(() => { scrollEnabled = true; }, 100);
   }, 50);
@@ -1317,7 +1317,7 @@ if (['#works', '#about', '#process', '#journey', '#contact'].includes(location.h
   requestAnimationFrame(() => {
     if (wantContact) setTimeout(() => openModal(), 400);
     const el = $(wantContact ? '#works' : location.hash);
-    if (el) window.scrollTo(0, el.getBoundingClientRect().top + pageYOffset);
+    if (el) window.scrollTo(0, Math.max(0, el.getBoundingClientRect().top + pageYOffset - (location.hash === '#process' ? ($('.hdr')?.offsetHeight || 80) : 0)));
     dispatchEvent(new Event('intro:ready'));
   });
 } else {

diff --git a/docs/sections-qa.md b/docs/sections-qa.md
@@ -1,9 +1,23 @@
-# About and workflow sections
+# Scroll-driven About and Workflow
 
-Adds an Arabic personal introduction with a paper-style values card and a four-stage workflow using the established door colours, neutral surfaces, local font and existing light/dark tokens. Existing journey remains at `#journey`; `#about` now targets the new introduction. Footer links and project-room About navigation follow the new anchor.
+About is a three-paper dossier: the introduction stays beside the scene on desktop, and native vertical scroll peels away the foreground paper to reveal clarity, connection and continuity. On phones the introduction precedes a smaller sticky paper scene. Each principle has a reading hold before its paper turns. The principle buttons also navigate the sequence.
 
-Verified in browser at 320, 390, 768 and 1363 CSS pixels: document width equals viewport width, four workflow stages present, and text wraps without horizontal overflow. Workflow switches from a four-column rail to two columns on intermediate screens and a vertical rail on phones. Verified the About navigation, the inline workflow link, and the workflow CTA opening the existing contact dialog. Checked the desktop dark theme. One-time IntersectionObserver reveals respect reduced motion; content is readable without animation or JavaScript.
+Workflow adapts the graphic-design gallery motion from https://therishithakor.com/graphic-designer/: a sticky scene, a wire, brass pegs, horizontal prints driven by vertical scroll, and damped angular movement based on track velocity. The direction is mirrored for Arabic RTL. Four illustrated text cards replace the reference photos. Previous/next controls, keyboard arrows and the existing contact dialog remain available.
 
-Evidence in `qa/sections/`: `about-desktop.jpg`, `process-desktop.jpg`, `about-mobile.jpg`, `process-mobile.jpg`.
+Motion uses transforms and a finite settling loop, without intercepting wheel/touch events. Reduced-motion users receive ordinary content and a native horizontally scrollable workflow. Very short screens also use native scrolling instead of a cramped pinned workflow. Diagrams and controls are inline SVG; no new external dependency or raster assets.
 
-Build: npm run build passed. Browser mobile checks use real iframe viewports, not physical iOS/Android devices.
+Browser checks:
+
+- 1363px desktop: paper sequence and pinned workflow; native scroll changes the transforms.
+- 390×844: workflow moved from progress 0.0008 to 0.4931 with translateX 468.95px while pin top remained 94px; document width stayed 390px.
+- A physical-position click on Next moved 01 to 02 at progress 0.3335. Native scrolling reached 04 at progress 1; the final print remained within the viewport.
+- Workflow CTA opens the existing enquiry dialog.
+- 390×568: second About principle remains fully readable with no internal card overflow.
+- 320×568, 320×844, 768×844: workflow enabled, document width equals viewport, and no text-card overflow.
+- 390×400: native workflow fallback, no document or card overflow.
+- No application console errors observed; browser extension metadata errors are outside the app.
+- Build and JavaScript syntax checks passed.
+
+Evidence: `qa/sections/about-desktop.jpg`, `process-desktop.jpg`, `about-mobile.jpg`, `process-mobile.jpg`.
+
+Phone checks use browser iframe viewports with native input, not physical iOS/Android devices. Reduced-motion fallback is implemented; OS preference switching was not available in this browser.
